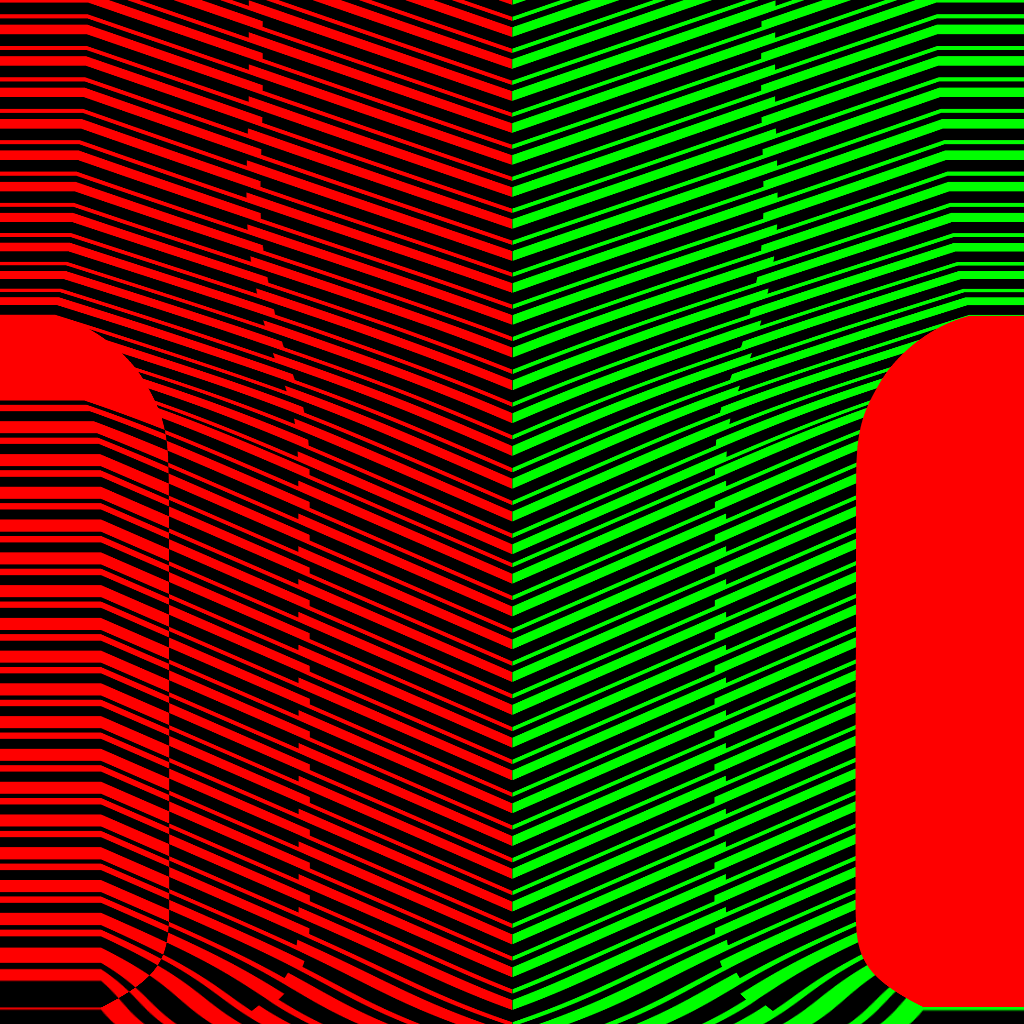
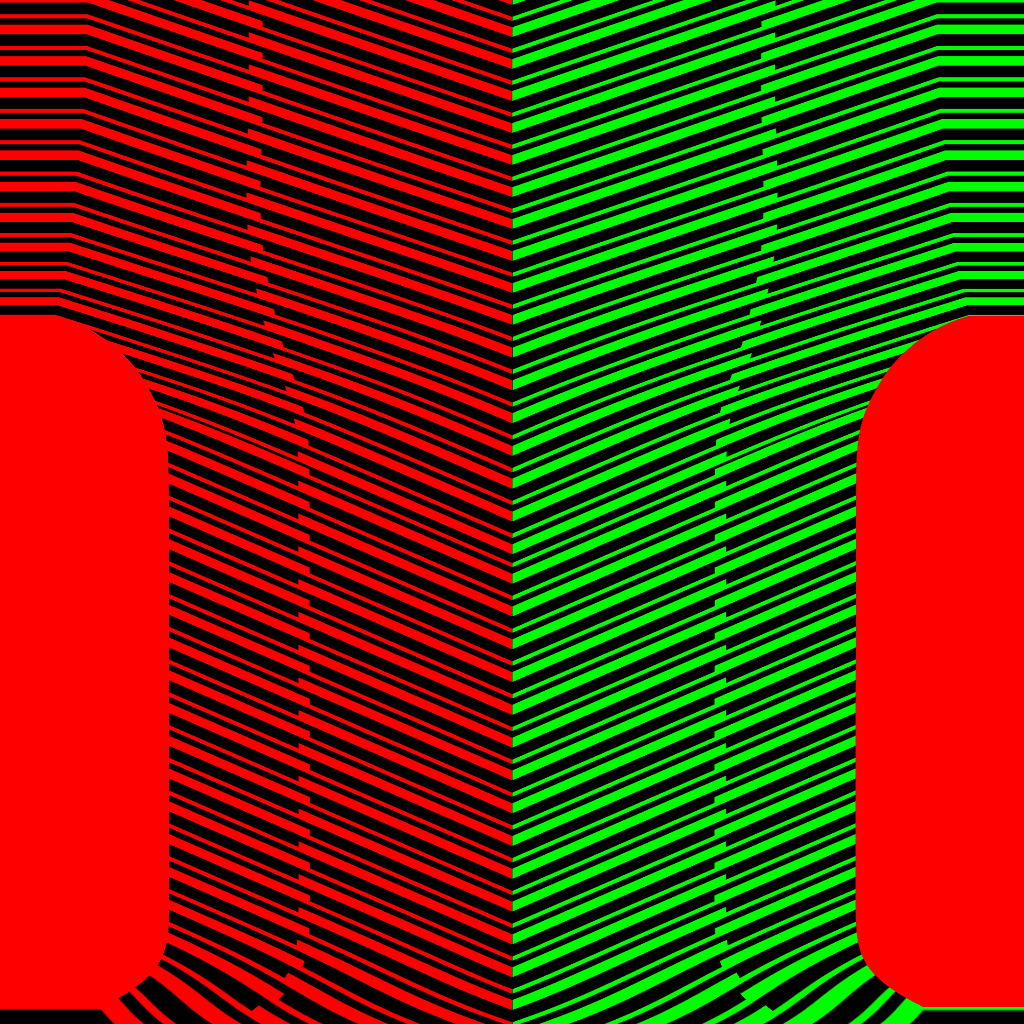
fix: the side panels under the arms drawn whole (Espigas' back, Desgastado's back), one path per PDF drawing
Drawings of one color were joined into one path, and where they overlapped with opposite winding the
fill cut holes: Espigas' back panel showed the stripes through it, Desgastado's back panels were gone.
Only moldes 12 and 19 change; their roles stay. Espigas' side seams now meet (check_seams: 14 -> 0).

Changed region(s): [[0.0, 0.375, 0.1875, 1.0]]

diff --git a/scripts/moldes/extract_moldes.py b/scripts/moldes/extract_moldes.py
@@ -468,9 +468,10 @@ def piece_svg(piece, m, width, height, paint, attrs):
                 key = ("s", paint(hexof(x["color"])), False, x.get("width") or 1)
             else:
                 key = ("f", paint(hexof(x["fill"])), bool(x.get("even_odd")), 0)
-            if key != run["key"]:
-                flush()
-                run["key"] = key
+            # One path per drawing: drawings of one color joined into one path can wind against each other and
+            # cut holes where they overlap (molde 12's side panel over its stripes of the same gray).
+            flush()
+            run["key"] = key
             run["d"].append(path_d(x["items"]))
         flush()
         body.extend(["</g>"] * (len(open_chain) + opened))
